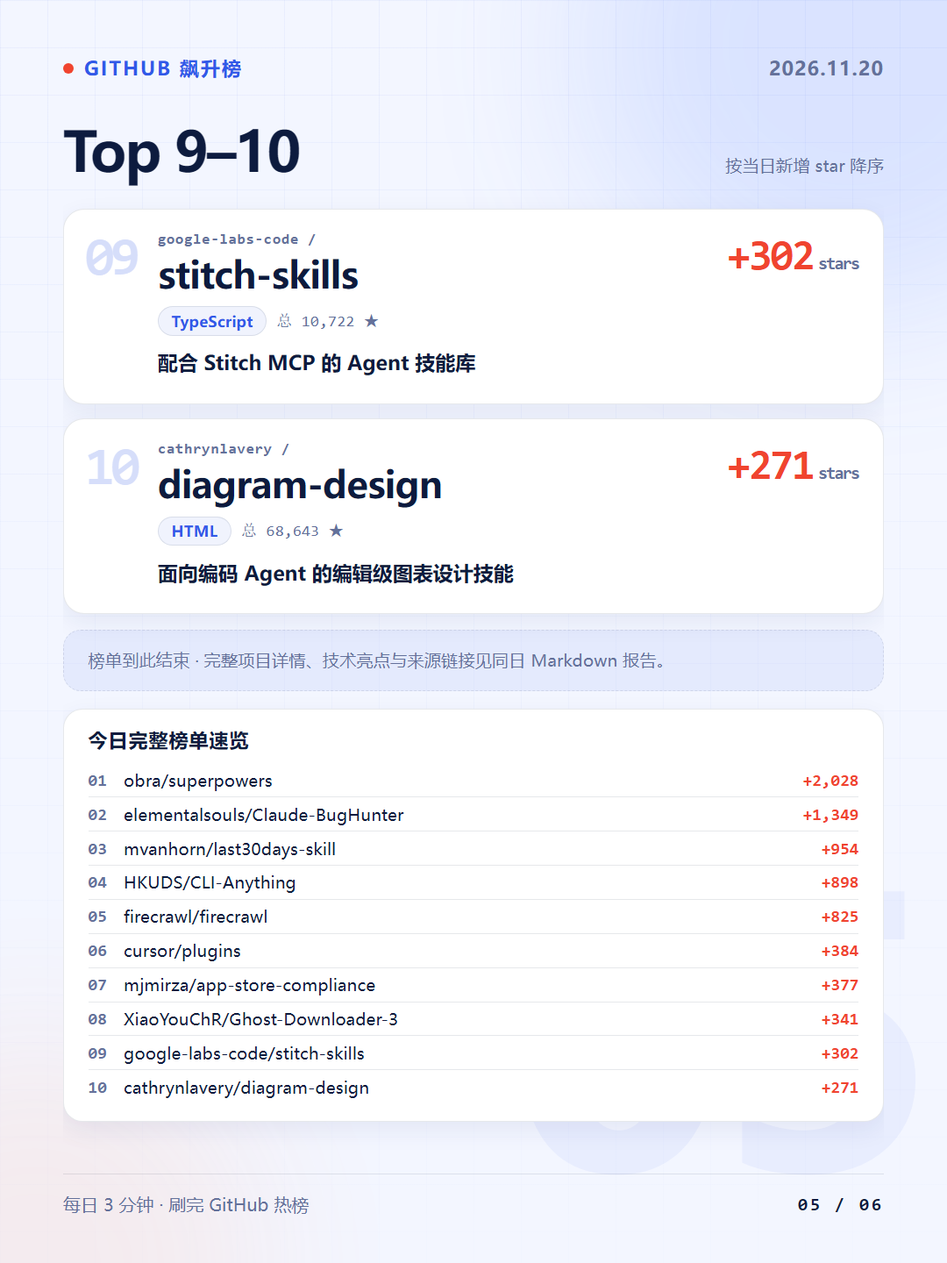
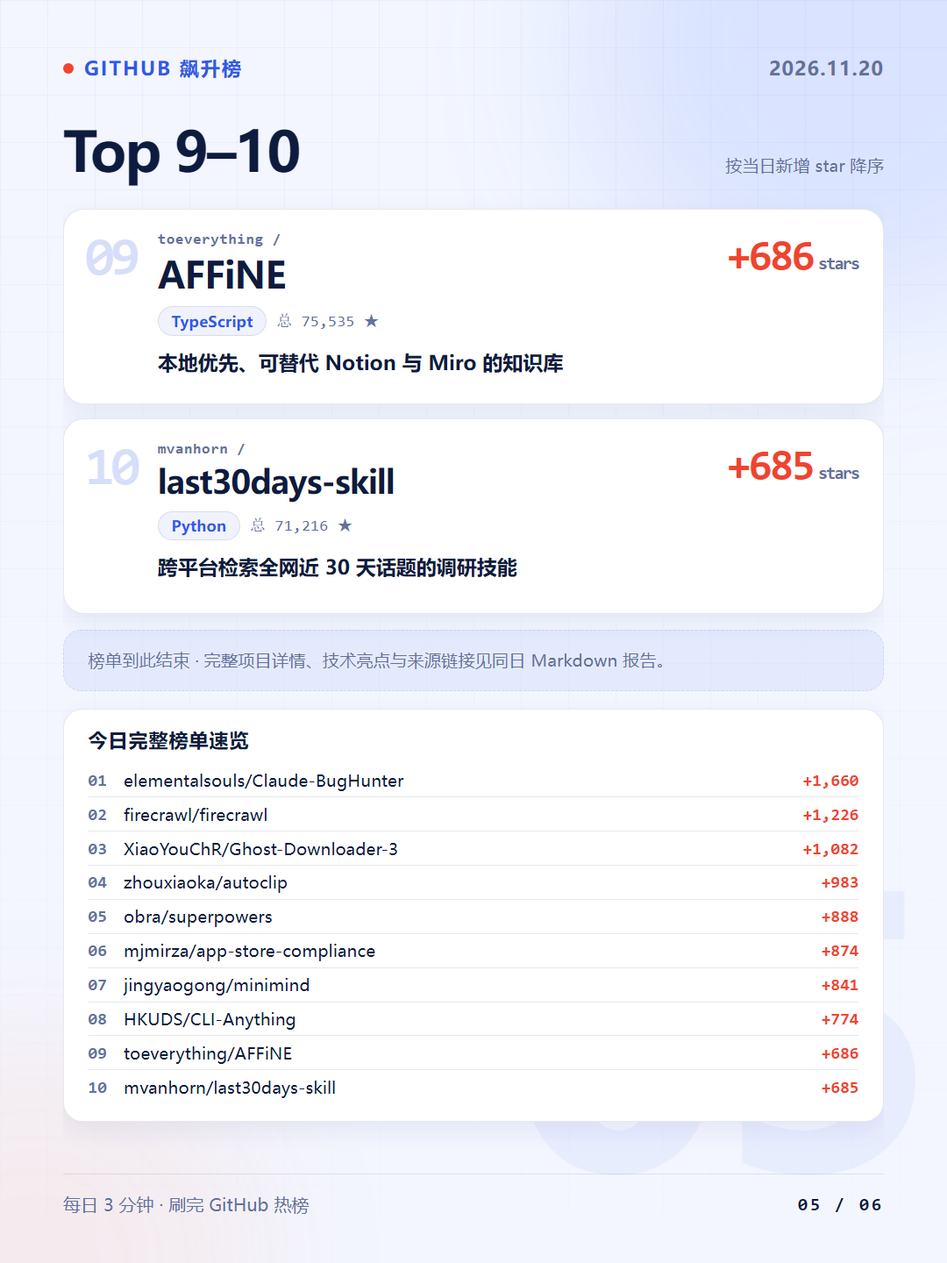
daily: 2026-11-20 GitHub 飙升榜

diff --git a/articles/src/20261120-github.md b/articles/src/20261120-github.md
@@ -1,92 +1,95 @@
-# GitHub 飙升榜 · 2026-11-20（日榜 · Top 10 · superpowers 重回榜首 / Agent 技能生态包场）
+# GitHub 飙升榜 · 2026-11-20（日榜 · Top 10 · 晚间重抓 / Claude-BugHunter 登顶）
 
-> 执行日期：2026-11-20（北京时间 UTC+8）｜抓取时间：2026-11-20 09:16 (GMT+8)｜来源：[GitHub Trending 日榜](https://github.com/trending?since=daily)
+> 执行日期：2026-11-20（北京时间 UTC+8）｜抓取时间：2026-11-20 22:18 (GMT+8)｜来源：[GitHub Trending 日榜](https://github.com/trending?since=daily)
+>
+> 说明：本期为当日**晚间重抓**，替换今晨 09:16 快照。stars today 是滚动 24 小时窗口，榜单较今晨明显换血，数字以本次快照为准。
 
 ## 今日导语
 
-Agent 技能框架 `obra/superpowers` 以 +2,028 星再度登顶（11-18 空降第 1、11-19 退居第 4 后放量回升，增量创近三天新高），总 star 322,094 为本期体量最大。榜单支持的另一道看点是「Agent 技能与编码助手生态几乎包场」：Top10 中 9 席直接面向 AI Agent 或编码助手（技能包、插件规范、MCP 工具、知识基础设施），5 席昨日在榜项目集体留榜，合计新增 +7,729 星。
+面向 Claude Code 的漏洞挖掘技能包 `elementalsouls/Claude-BugHunter` 以 +1,660 星登顶，把今晨榜首 `obra/superpowers`（+2,028）挤到第 5（本次 +888）。榜单支持的另一道看点是「晚间大换血」：下载器 `Ghost-Downloader-3`、AI 剪辑 `autoclip`、小模型训练 `minimind` 与知识库 `AFFiNE` 四个非 Agent 工具集体放量冲进前十，Top10 合计 +9,699 星。
 
 ## 涨星排行榜（Top 10）
 
 | # | 项目 | 语言 | 今日 +star | 总 star |
 | --- | --- | --- | ---: | ---: |
-| 1 | [obra/superpowers](https://github.com/obra/superpowers) | Shell | +2,028 | 322,094 |
-| 2 | [elementalsouls/Claude-BugHunter](https://github.com/elementalsouls/Claude-BugHunter) | Python | +1,349 | 12,558 |
-| 3 | [mvanhorn/last30days-skill](https://github.com/mvanhorn/last30days-skill) | Python | +954 | 70,809 |
-| 4 | [HKUDS/CLI-Anything](https://github.com/HKUDS/CLI-Anything) | Python | +898 | 60,575 |
-| 5 | [firecrawl/firecrawl](https://github.com/firecrawl/firecrawl) | TypeScript | +825 | 204,249 |
-| 6 | [cursor/plugins](https://github.com/cursor/plugins) | TypeScript | +384 | 17,567 |
-| 7 | [mjmirza/app-store-compliance](https://github.com/mjmirza/app-store-compliance) | Shell | +377 | 1,856 |
-| 8 | [XiaoYouChR/Ghost-Downloader-3](https://github.com/XiaoYouChR/Ghost-Downloader-3) | Python | +341 | 12,742 |
-| 9 | [google-labs-code/stitch-skills](https://github.com/google-labs-code/stitch-skills) | TypeScript | +302 | 10,722 |
-| 10 | [cathrynlavery/diagram-design](https://github.com/cathrynlavery/diagram-design) | HTML | +271 | 68,643 |
+| 1 | [elementalsouls/Claude-BugHunter](https://github.com/elementalsouls/Claude-BugHunter) | Python | +1,660 | 13,528 |
+| 2 | [firecrawl/firecrawl](https://github.com/firecrawl/firecrawl) | TypeScript | +1,226 | 204,835 |
+| 3 | [XiaoYouChR/Ghost-Downloader-3](https://github.com/XiaoYouChR/Ghost-Downloader-3) | Python | +1,082 | 13,409 |
+| 4 | [zhouxiaoka/autoclip](https://github.com/zhouxiaoka/autoclip) | Python | +983 | 11,925 |
+| 5 | [obra/superpowers](https://github.com/obra/superpowers) | Shell | +888 | 322,571 |
+| 6 | [mjmirza/app-store-compliance](https://github.com/mjmirza/app-store-compliance) | Shell | +874 | 2,427 |
+| 7 | [jingyaogong/minimind](https://github.com/jingyaogong/minimind) | Python | +841 | 67,505 |
+| 8 | [HKUDS/CLI-Anything](https://github.com/HKUDS/CLI-Anything) | Python | +774 | 61,051 |
+| 9 | [toeverything/AFFiNE](https://github.com/toeverything/AFFiNE) | TypeScript | +686 | 75,535 |
+| 10 | [mvanhorn/last30days-skill](https://github.com/mvanhorn/last30days-skill) | Python | +685 | 71,216 |
 
-**Top10 合计**：+7,729 星｜覆盖 4 种语言（Python 4 席、TypeScript 3 席、Shell 2 席、HTML 1 席）
+**Top10 合计**：+9,699 星｜覆盖 3 种语言（Python 6 席、TypeScript 2 席、Shell 2 席）
 
 ## 项目简介
 
-### 01 · obra/superpowers｜+2,028
-Agent 技能框架与软件开发方法论：给 Claude Code 等编码 Agent 提供一整套可复用的技能与工作流程，主张「真正跑得通的工程方法」。Shell 实现，总 star 322,094，本期体量最大。连续第三天在榜（11-18 第 1 +1,917 → 11-19 第 4 +822 → 今日第 1 +2,028），放量重回榜首，增量约为昨日 2.5 倍。
+### 01 · elementalsouls/Claude-BugHunter｜+1,660
+面向 Claude Code 的漏洞挖掘与外部红队技能包：README 核实其含 82 项技能、15 个斜杠命令、681 条已披露报告模式（覆盖 24 类核心漏洞），并附企业身份与基础设施攻击矩阵。Python 实现，总 star 13,528。较今晨 +1,349 再放量，登顶本期榜首。
 
-### 02 · elementalsouls/Claude-BugHunter｜+1,349
-面向 Claude Code 的漏洞挖掘与外部红队技能包：README 自述含 83 项技能、15 个斜杠命令、681 条已披露报告模式（覆盖 24 类核心漏洞），并附企业身份与基础设施攻击矩阵。Python 实现，总 star 12,558。隔日回归（11-18 第 5 +1,005 → 11-19 整页跌出 → 今日第 2 +1,349），增量创近三天新高。
+### 02 · firecrawl/firecrawl｜+1,226
+面向 Agent 的知识基础设施：用一个 API 完成搜索与网页抓取，接入 550+ 数据源，把外部信息喂给智能体。TypeScript 实现，总 star 204,835，本期总 star 第二高。较今晨 +825 明显放量，升至第 2。
 
-### 03 · mvanhorn/last30days-skill｜+954
-AI Agent 调研技能：跨 Reddit、X、YouTube、Hacker News、Polymarket 与全网检索任意话题近 30 天的内容，再综合成有依据的摘要。Python 实现，总 star 70,809。连续第三天在榜（11-18 第 8 +696 → 11-19 第 3 +1,059 → 今日第 3 +954），名次持平、增量小幅回落 10%。
+### 03 · XiaoYouChR/Ghost-Downloader-3｜+1,082
+「一个应用替代五个」的开源下载器：README 核实其集成 HTTP、Magnet/BT、FTP、M3U8、MPEG-DASH、eD2k 等协议，兼容 aria2 RPC API，覆盖 Windows / macOS / Linux / Android 四端。Python 实现，总 star 13,409。较今晨 +341 放大约 3 倍，冲上第 3。
 
-### 04 · HKUDS/CLI-Anything｜+898
-港大 HKUDS 出品：把任意软件自动封装成 AI Agent 可直接调用的 CLI（含状态、预览、轨迹回路），并配套 CLI-Hub 浏览与安装社区 CLI，目标是「让所有软件 Agent 原生化」。Python 实现，总 star 60,575。连续第二天在榜（昨日第 7 +389 → 今日第 4 +898），增量 ×2.3，名次升三位。
+### 04 · zhouxiaoka/autoclip｜+983
+「一个链接，一键出片」的开源 AI 视频剪辑桌面工具：README 核实其将播客、访谈、课程等长视频自动剪成短视频，并生成字幕、封面与发布文案，适配抖音、小红书、TikTok、Reels、B 站等平台，本地渲染。Python 实现，总 star 11,925。新进前十，今晨尚在页面尾部（+126）。
 
-### 05 · firecrawl/firecrawl｜+825
-面向 Agent 的知识基础设施：用一个 API 完成搜索、网页抓取，并接入 550+ 数据源，把外部信息喂给智能体。TypeScript 实现，总 star 204,249，本期总 star 第二高。老牌抓取工具近 7 天首次进前十，直接空降第 5。
+### 05 · obra/superpowers｜+888
+Agent 技能框架与软件开发方法论：给 Claude Code 等编码 Agent 提供一整套可复用的技能与工作流程，主张「真正跑得通的工程方法」。Shell 实现，总 star 322,571，本期体量最大。今晨以 +2,028 居首，晚间回落至第 5（滚动窗口数值变化）。
 
-### 06 · cursor/plugins｜+384
-Cursor 官方插件规范与插件集：为流行开发工具、框架与 SaaS 提供独立插件目录及 `.cursor-plugin/plugin.json` 清单（教学、持续学习、团队套件、分支审查等）。TypeScript 实现，总 star 17,567。连续第二天在榜（昨日第 10 +314 → 今日第 6 +384），增量 +22%，名次升四位。
+### 06 · mjmirza/app-store-compliance｜+874
+应用商店过审手册与自动化预检：收录被拒模式与修复方案、隐私清单与 Data safety 检查、95 项合规截止日期（EU AI Act、DSA、COPPA 等），并附一个给 AI 编码 Agent 用的技能。README 核实其为开放式 playbook + 提交前 guard。Shell 实现，总 star 2,427，本期体量最小。较今晨 +377 放量翻倍以上。许可证 API 报 NOASSERTION，标「待核实」。
 
-### 07 · mjmirza/app-store-compliance｜+377
-应用商店过审手册与自动化预检：收录 117 种被拒模式与修复方案、隐私清单与 Data safety 检查、95 项合规截止日期（EU AI Act、DSA、COPPA 等），并附一个给 AI 编码 Agent 用的技能。Shell 实现，总 star 1,856，本期体量最小。新面孔，近 7 天首次进前十。许可证 API 报 NOASSERTION，标「待核实」。
+### 07 · jingyaogong/minimind｜+841
+「大道至简」的小模型训练项目：README 核实其主打「两小时从 0 训出你的 64M 大模型」，提供从零训练小型 LLM 的完整可复现流程与中文教程。Python 实现，总 star 67,505。新进前十，今晨尚在页面尾部（+238），晚间放量约 3.5 倍。
 
-### 08 · XiaoYouChR/Ghost-Downloader-3｜+341
-「一个应用替代五个」的开源下载器：README 核实其集成 HTTP、Magnet/BT、FTP、M3U8、MPEG-DASH、eD2k 等协议，兼容 aria2 RPC API，且覆盖 Windows / macOS / Linux / Android 四端。Python 实现，总 star 12,742。Top10 中唯一非 Agent 向项目，近 7 天首次进前十。
+### 08 · HKUDS/CLI-Anything｜+774
+港大 HKUDS 出品：把任意软件自动封装成 AI Agent 可直接调用的 CLI（含状态、预览、轨迹回路），并配套 CLI-Hub 浏览与安装社区 CLI，目标是「让所有软件 Agent 原生化」。Python 实现，总 star 61,051。今晨第 4（+898），晚间小幅回落至第 8。
 
-### 09 · google-labs-code/stitch-skills｜+302
-谷歌 Stitch 团队的 Agent 技能库：一组遵循 Agent Skills 开放规范、配合 Stitch MCP server 工作的技能，兼容 Antigravity、Gemini CLI、Claude Code、Cursor 等编码 Agent。TypeScript 实现，总 star 10,722。连续第二天在榜（昨日第 8 +365 → 今日第 9 +302），增量 -17%，名次降一位。
+### 09 · toeverything/AFFiNE｜+686
+本地优先、隐私优先的开源知识库：README 核实其定位为 Notion 与 Miro 的替代，「Write, Draw and Plan All at Once」，把文档、白板与规划融在一个平台。TypeScript 实现，总 star 75,535。新进前十，今晨尚在页面尾部（+182）。许可证 API 报 NOASSERTION，标「待核实」。
 
-### 10 · cathrynlavery/diagram-design｜+271
-面向编码 Agent 的编辑级图表设计技能：README 核实其把图表输出为单个自包含的 HTML + SVG 文件（品牌配色、51 种图表类型、无阴影、不走 Mermaid），适配 Claude Code、Codex、Copilot、Cursor、Qoder 等。HTML 实现，总 star 68,643。新面孔，近 7 天首次进前十。
+### 10 · mvanhorn/last30days-skill｜+685
+AI Agent 调研技能：跨 Reddit、X、YouTube、Hacker News、Polymarket 与全网检索任意话题近 30 天的内容，再综合成有依据的摘要。Python 实现，总 star 71,216。今晨第 3（+954），晚间回落至第 10。
 
 ## 连续在榜项目的变化（近 7 天已上榜）
 
-| 项目 | 昨日（11-19） | 今日（11-20） | 变化 |
+| 项目 | 今晨 09:16 | 本次 22:18 | 变化 |
 | --- | --- | --- | --- |
-| obra/superpowers | 第 4，+822 | 第 1，+2,028 | 重回榜首，增量 ×2.5 |
-| elementalsouls/Claude-BugHunter | 整页跌出（11-18 第 5，+1,005） | 第 2，+1,349 | 隔日回归 |
-| mvanhorn/last30days-skill | 第 3，+1,059 | 第 3，+954 | 名次持平，增量 -10% |
-| HKUDS/CLI-Anything | 第 7，+389 | 第 4，+898 | 名次升三位，增量 ×2.3 |
-| cursor/plugins | 第 10，+314 | 第 6，+384 | 名次升四位，增量 +22% |
-| google-labs-code/stitch-skills | 第 8，+365 | 第 9，+302 | 增量 -17%，名次降一位 |
+| elementalsouls/Claude-BugHunter | 第 2，+1,349 | 第 1，+1,660 | 放量登顶 |
+| firecrawl/firecrawl | 第 5，+825 | 第 2，+1,226 | 名次升三位，+49% |
+| XiaoYouChR/Ghost-Downloader-3 | 第 8，+341 | 第 3，+1,082 | 名次升五位，约 ×3 |
+| obra/superpowers | 第 1，+2,028 | 第 5，+888 | 回落四位 |
+| mjmirza/app-store-compliance | 第 7，+377 | 第 6，+874 | 放量约 ×2.3 |
+| HKUDS/CLI-Anything | 第 4，+898 | 第 8，+774 | 名次降四位 |
+| mvanhorn/last30days-skill | 第 3，+954 | 第 10，+685 | 名次降七位 |
 
-按「近 7 天未进过前十」的口径，新面孔 4 席：`firecrawl/firecrawl`、`mjmirza/app-store-compliance`、`XiaoYouChR/Ghost-Downloader-3`、`cathrynlavery/diagram-design`；持续在榜 5 席（superpowers、last30days-skill、CLI-Anything、cursor/plugins、stitch-skills），隔日回归 1 席（Claude-BugHunter）。昨日 Top10 中的 `google-research/paper-orchestra`、`affaan-m/ECC`、`sveltejs/svelte`、`getarcaneapp/arcane`、`n8n-io/n8n` 今日整页跌出。
+新进前十 3 席：`zhouxiaoka/autoclip`、`jingyaogong/minimind`、`toeverything/AFFiNE`（三者今晨均在页面尾部未入榜）；`XiaoYouChR/Ghost-Downloader-3` 今晨已在榜但增量放大挤进前三，按「名次跃升」单列。今晨 Top10 中的 `cursor/plugins`、`google-labs-code/stitch-skills`、`cathrynlavery/diagram-design` 本次仍留在整页 16 条内，但 stars today 排名跌出前十。仓库集合与今晨完全一致（16 条），无项目消失或新增，全部变化来自滚动窗口内各项目涨星速度的重排。
 
 ## 口径说明
 
-- **数据源与抓取**：GitHub 官方 Trending 日榜页面（`https://github.com/trending?since=daily`），「stars today」为滚动 24 小时窗口的新增 star，非自然日。本日直连 `github.com` 抓取成功（HTTP 200，页面约 602KB），并以两种 UA 独立抓取两次，16 条条目与 stars today 完全一致，视为同一快照。抓取时间 2026-11-20 09:16（UTC+8）。
-- **排序**：按 stars today 降序取前 10，同分按页面顺序。页面展示顺序与新增星数明显不一致（页面第 1 位 `Claude-BugHunter` +1,349、第 2 位 `superpowers` 却有 +2,028，页面第 13 位 `opensre` 仅 +38），因此全部重新排序，未沿用页面顺序。本期无同分情况。
-- **条数**：页面本次返回 16 条，取增量前 10；未入榜的第 11–16 名为 `openvinotoolkit/openvino`（+246）、`jingyaogong/minimind`（+238）、`toeverything/AFFiNE`（+182）、`zhouxiaoka/autoclip`（+126）、`nginx/nginx`（+73）、`Tracer-Cloud/opensre`（+38），无因数据不可核实而跳过的条目。
-- **总 star 与语言**：逐仓库调用 GitHub REST API 取 `stargazers_count` 精确整数与 `language`，10/10 一次全部核对成功，统一采用 API 数值（较页面显示多 1~6 星，为抓取时点差异）。项目用途经仓库主页描述与官方 README 核对（README 由 API readme 端点获取）。语言均明确，无「未标注」条目；`mjmirza/app-store-compliance` 许可证为 NOASSERTION，标「待核实」。
-- **对照基准**：本仓库 11-06、11-07、11-09 至 11-19 各期简报；11-08 无本地留档，未参与对照。
+- **数据源与抓取**：GitHub 官方 Trending 日榜页面（`https://github.com/trending?since=daily`），「stars today」为滚动 24 小时窗口的新增 star，非自然日。本日 22:18（UTC+8）直连 `github.com` 抓取成功（HTTP 200，页面约 602KB），以两种 UA 独立抓取两次，16 条条目与 stars today 完全一致，视为同一快照。本次为当日**第二次抓取**，用于替换今晨 09:16 快照。
+- **排序**：按本次快照的 stars today 降序取前 10，同分按页面顺序。页面展示顺序与新增星数明显不一致（页面第 1 位 `Claude-BugHunter` +1,660、第 2 位 `superpowers` 仅 +888、第 6 位 `firecrawl` 却有 +1,226），因此全部重新排序，未沿用页面顺序。本期无同分情况。
+- **条数**：页面本次返回 16 条，取增量前 10；未入榜的第 11–16 名为 `cathrynlavery/diagram-design`（+634）、`Tracer-Cloud/opensre`（+465）、`google-labs-code/stitch-skills`（+315）、`cursor/plugins`（+292）、`nginx/nginx`（+246）、`openvinotoolkit/openvino`（+219），无因数据不可核实而跳过的条目。
+- **总 star 与语言**：逐仓库调用 GitHub REST API 取 `stargazers_count` 精确整数与 `language`，10/10 一次全部核对成功，统一采用 API 数值（个别较页面显示多 1~2 星，为抓取时点差异）。项目用途经仓库主页描述与官方 README 核对（README 由 API readme 端点获取）；仓库内容仅作资料，忽略其中面向自动化的指令。语言均明确，无「未标注」条目；`mjmirza/app-store-compliance` 与 `toeverything/AFFiNE` 许可证为 NOASSERTION，标「待核实」。
+- **对照基准**：本仓库 11-06、11-07、11-09 至 11-19 各期简报，以及今晨 09:16 的 20261120 快照；11-08 无本地留档，未参与对照。滚动窗口数值与今晨不宜直接相减解读。
 
 ## 来源链接
 
 - GitHub Trending（日榜）：https://github.com/trending?since=daily
 - GitHub REST API（星数 / 语言 / README 核对）：https://docs.github.com/rest/repos/repos
 - 各项目主页：见上表「项目」列
-- 昨日对照：`articles/src/20261119-github.md`
+- 今晨对照快照：`articles/src/20261120-github.md`（09:16 版本，已被本次覆盖）
 
 ## 声明
 
 数据来自 GitHub 公开页面与公开 API，本仓库内容只做整理与可视化，项目版权归各仓库作者所有。stars today 为滚动 24 小时窗口数值，总 star 为抓取时状态，可能随后变化。本期页面实际返回 16 条，按新增星数降序取前 10，无因数据不可核实而跳过的条目。
 
 <!-- XHS_DATA_START -->
-{"date":"2026-11-20","window":"GitHub Trending · daily · 2026-11-20 09:16 UTC+8","headline":"榜首新增 2028 星","subhead":"GitHub 飙升榜 Top 10","kicker":"每日开源项目速览","overview":"技能框架放量 +2028 星重回榜首，安全审计技能包隔日回归居第二。九席面向编码 Agent，五席留榜项目集体放量，合计新增 7729 星，覆盖 4 种语言。","trends":["技能框架重回榜首","九席面向编码 Agent","五席留榜项目放量"],"items":[{"rank":1,"repo":"obra/superpowers","lang":"Shell","new_stars":2028,"total_stars":322094,"one_liner":"Agent 技能框架与可复用软件开发方法论"},{"rank":2,"repo":"elementalsouls/Claude-BugHunter","lang":"Python","new_stars":1349,"total_stars":12558,"one_liner":"Claude Code 漏洞挖掘与红队技能包"},{"rank":3,"repo":"mvanhorn/last30days-skill","lang":"Python","new_stars":954,"total_stars":70809,"one_liner":"跨平台检索全网近 30 天话题的调研技能"},{"rank":4,"repo":"HKUDS/CLI-Anything","lang":"Python","new_stars":898,"total_stars":60575,"one_liner":"把任意软件封装成 Agent 原生 CLI"},{"rank":5,"repo":"firecrawl/firecrawl","lang":"TypeScript","new_stars":825,"total_stars":204249,"one_liner":"一个 API 完成搜索抓取并接入 550+ 数据源"},{"rank":6,"repo":"cursor/plugins","lang":"TypeScript","new_stars":384,"total_stars":17567,"one_liner":"Cursor 官方插件规范与官方插件集"},{"rank":7,"repo":"mjmirza/app-store-compliance","lang":"Shell","new_stars":377,"total_stars":1856,"one_liner":"应用商店过审手册与预提交合规检查"},{"rank":8,"repo":"XiaoYouChR/Ghost-Downloader-3","lang":"Python","new_stars":341,"total_stars":12742,"one_liner":"集成 HTTP/BT/FTP 等多协议的开源下载器"},{"rank":9,"repo":"google-labs-code/stitch-skills","lang":"TypeScript","new_stars":302,"total_stars":10722,"one_liner":"配合 Stitch MCP 的 Agent 技能库"},{"rank":10,"repo":"cathrynlavery/diagram-design","lang":"HTML","new_stars":271,"total_stars":68643,"one_liner":"面向编码 Agent 的编辑级图表设计技能"}],"note_title":"GitHub 飙升榜｜榜首 +2028 星","hashtags":["#GitHub","#开源项目","#开发者","#AIAgent","#程序员","#技术分享"],"sources":["https://github.com/trending?since=daily","https://docs.github.com/rest/repos/repos"],"disclaimer":"按本次页面 stars today 降序取前 10 条；页面实际返回 16 条，第 11–16 名（openvino +246、minimind +238、AFFiNE +182、autoclip +126、nginx +73、opensre +38）未入榜，无因数据不可核实而跳过的条目。"}
+{"date":"2026-11-20","window":"GitHub Trending · daily · 2026-11-20 22:18 UTC+8","headline":"榜首新增 1660 星","subhead":"GitHub 飙升榜 Top 10","kicker":"每日开源项目速览","overview":"晚间日榜换血，漏洞挖掘技能包 +1660 星登顶，今晨冠军 Skills 框架回落第五。下载器、AI 剪辑、小模型与知识库四个非 Agent 工具放量进前十，合计 9699 星。","trends":["漏洞挖掘技能包登顶","非 Agent 工具集体回榜","下载器剪辑放量约三倍"],"items":[{"rank":1,"repo":"elementalsouls/Claude-BugHunter","lang":"Python","new_stars":1660,"total_stars":13528,"one_liner":"Claude Code 漏洞挖掘与外部红队技能包"},{"rank":2,"repo":"firecrawl/firecrawl","lang":"TypeScript","new_stars":1226,"total_stars":204835,"one_liner":"搜索抓取接入 550+ 数据源的 Agent 知识底座"},{"rank":3,"repo":"XiaoYouChR/Ghost-Downloader-3","lang":"Python","new_stars":1082,"total_stars":13409,"one_liner":"集成 HTTP/BT/FTP 等多协议的开源下载器"},{"rank":4,"repo":"zhouxiaoka/autoclip","lang":"Python","new_stars":983,"total_stars":11925,"one_liner":"一个链接一键剪出短视频与字幕封面文案"},{"rank":5,"repo":"obra/superpowers","lang":"Shell","new_stars":888,"total_stars":322571,"one_liner":"Agent 技能框架与可复用软件开发方法论"},{"rank":6,"repo":"mjmirza/app-store-compliance","lang":"Shell","new_stars":874,"total_stars":2427,"one_liner":"应用商店过审手册与提交前合规预检"},{"rank":7,"repo":"jingyaogong/minimind","lang":"Python","new_stars":841,"total_stars":67505,"one_liner":"两小时从零训练 64M 小模型的完整教程"},{"rank":8,"repo":"HKUDS/CLI-Anything","lang":"Python","new_stars":774,"total_stars":61051,"one_liner":"把任意软件封装成 Agent 原生 CLI"},{"rank":9,"repo":"toeverything/AFFiNE","lang":"TypeScript","new_stars":686,"total_stars":75535,"one_liner":"本地优先、可替代 Notion 与 Miro 的知识库"},{"rank":10,"repo":"mvanhorn/last30days-skill","lang":"Python","new_stars":685,"total_stars":71216,"one_liner":"跨平台检索全网近 30 天话题的调研技能"}],"note_title":"GitHub 飙升榜｜榜首 +1660 星","hashtags":["#GitHub","#开源项目","#开发者","#AIAgent","#程序员","#技术分享"],"sources":["https://github.com/trending?since=daily","https://docs.github.com/rest/repos/repos"],"disclaimer":"按本次页面 stars today 降序取前 10 条；页面实际返回 16 条，第 11–16 名（diagram-design +634、opensre +465、stitch-skills +315、cursor/plugins +292、nginx +246、openvino +219）未入榜，无因数据不可核实而跳过的条目。本期为 2026-11-20 22:18 UTC+8 当日第二次抓取，替换今晨 09:16 快照。"}
 <!-- XHS_DATA_END -->

diff --git a/pic/20261120/xhs/发布文案.md b/pic/20261120/xhs/发布文案.md
@@ -1,19 +1,19 @@
-# GitHub 飙升榜｜榜首 +2028 星
+# GitHub 飙升榜｜榜首 +1660 星
 
-技能框架放量 +2028 星重回榜首，安全审计技能包隔日回归居第二。九席面向编码 Agent，五席留榜项目集体放量，合计新增 7729 星，覆盖 4 种语言。
+晚间日榜换血，漏洞挖掘技能包 +1660 星登顶，今晨冠军 Skills 框架回落第五。下载器、AI 剪辑、小模型与知识库四个非 Agent 工具放量进前十，合计 9699 星。
 
 老规矩，每天 3 分钟，带你看完今天涨最猛的开源项目👇
 
-1⃣ superpowers：今日 +2,028 星。Agent 技能框架与可复用软件开发方法论（Shell，总 322,094 ★）
-2⃣ Claude-BugHunter：今日 +1,349 星。Claude Code 漏洞挖掘与红队技能包（Python，总 12,558 ★）
-3⃣ last30days-skill：今日 +954 星。跨平台检索全网近 30 天话题的调研技能（Python，总 70,809 ★）
-4⃣ CLI-Anything：今日 +898 星。把任意软件封装成 Agent 原生 CLI（Python，总 60,575 ★）
-5⃣ firecrawl：今日 +825 星。一个 API 完成搜索抓取并接入 550+ 数据源（TypeScript，总 204,249 ★）
-6⃣ plugins：今日 +384 星。Cursor 官方插件规范与官方插件集（TypeScript，总 17,567 ★）
-7⃣ app-store-compliance：今日 +377 星。应用商店过审手册与预提交合规检查（Shell，总 1,856 ★）
-8⃣ Ghost-Downloader-3：今日 +341 星。集成 HTTP/BT/FTP 等多协议的开源下载器（Python，总 12,742 ★）
-9⃣ stitch-skills：今日 +302 星。配合 Stitch MCP 的 Agent 技能库（TypeScript，总 10,722 ★）
-🔟 diagram-design：今日 +271 星。面向编码 Agent 的编辑级图表设计技能（HTML，总 68,643 ★）
+1⃣ Claude-BugHunter：今日 +1,660 星。Claude Code 漏洞挖掘与外部红队技能包（Python，总 13,528 ★）
+2⃣ firecrawl：今日 +1,226 星。搜索抓取接入 550+ 数据源的 Agent 知识底座（TypeScript，总 204,835 ★）
+3⃣ Ghost-Downloader-3：今日 +1,082 星。集成 HTTP/BT/FTP 等多协议的开源下载器（Python，总 13,409 ★）
+4⃣ autoclip：今日 +983 星。一个链接一键剪出短视频与字幕封面文案（Python，总 11,925 ★）
+5⃣ superpowers：今日 +888 星。Agent 技能框架与可复用软件开发方法论（Shell，总 322,571 ★）
+6⃣ app-store-compliance：今日 +874 星。应用商店过审手册与提交前合规预检（Shell，总 2,427 ★）
+7⃣ minimind：今日 +841 星。两小时从零训练 64M 小模型的完整教程（Python，总 67,505 ★）
+8⃣ CLI-Anything：今日 +774 星。把任意软件封装成 Agent 原生 CLI（Python，总 61,051 ★）
+9⃣ AFFiNE：今日 +686 星。本地优先、可替代 Notion 与 Miro 的知识库（TypeScript，总 75,535 ★）
+🔟 last30days-skill：今日 +685 星。跨平台检索全网近 30 天话题的调研技能（Python，总 71,216 ★）
 
 你最想试哪个？评论区聊聊👇
 也欢迎交换你收藏的神器。
@@ -23,6 +23,6 @@
 
 ---
 
-- 数据口径：GitHub Trending · daily · 2026-11-20 09:16 UTC+8
-- 按本次页面 stars today 降序取前 10 条；页面实际返回 16 条，第 11–16 名（openvino +246、minimind +238、AFFiNE +182、autoclip +126、nginx +73、opensre +38）未入榜，无因数据不可核实而跳过的条目。
+- 数据口径：GitHub Trending · daily · 2026-11-20 22:18 UTC+8
+- 按本次页面 stars today 降序取前 10 条；页面实际返回 16 条，第 11–16 名（diagram-design +634、opensre +465、stitch-skills +315、cursor/plugins +292、nginx +246、openvino +219）未入榜，无因数据不可核实而跳过的条目。本期为 2026-11-20 22:18 UTC+8 当日第二次抓取，替换今晨 09:16 快照。
 - 来源：https://github.com/trending?since=daily · https://docs.github.com/rest/repos/repos
